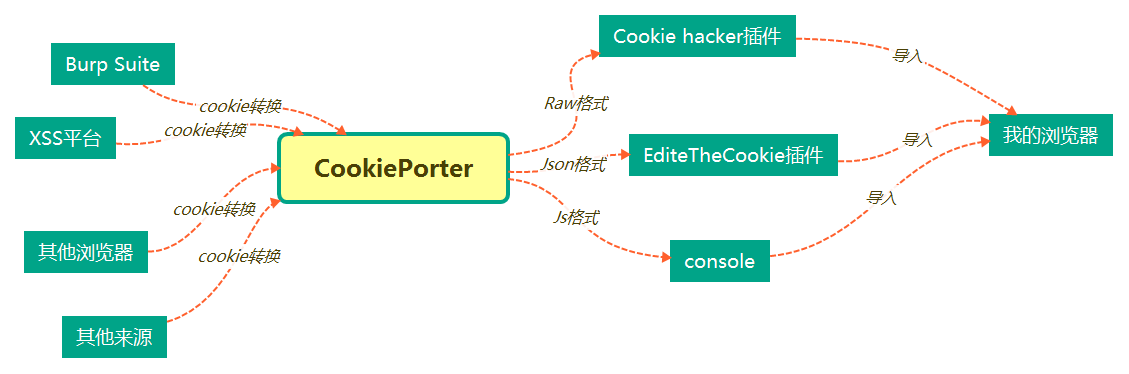
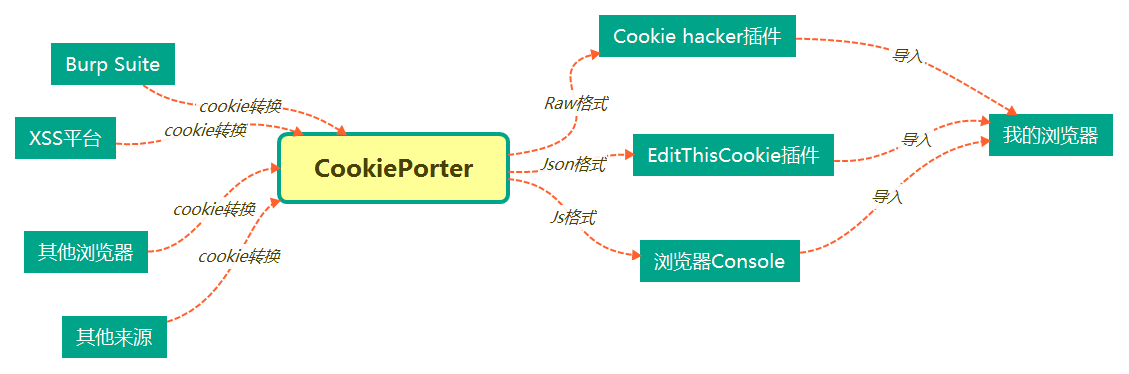
更正流程图错误，给Readme文档添加项目链接

diff --git a/README.md b/README.md
@@ -16,10 +16,10 @@
 ![主界面](doc/gui.png)
 
 ## Raw格式
-适合安装了Cooke hacker插件的chorme浏览器
+适合安装了[Cookie hacker](https://github.com/evilcos/cookiehacker)插件的chorme浏览器
 
 ## Json格式
-适合安装了CookieTheEditer插件的chorme内核浏览器
+适合安装了[EditThisCookie](https://github.com/fcapano/Edit-This-Cookie)插件的chorme内核浏览器
 
 
 ## console格式
